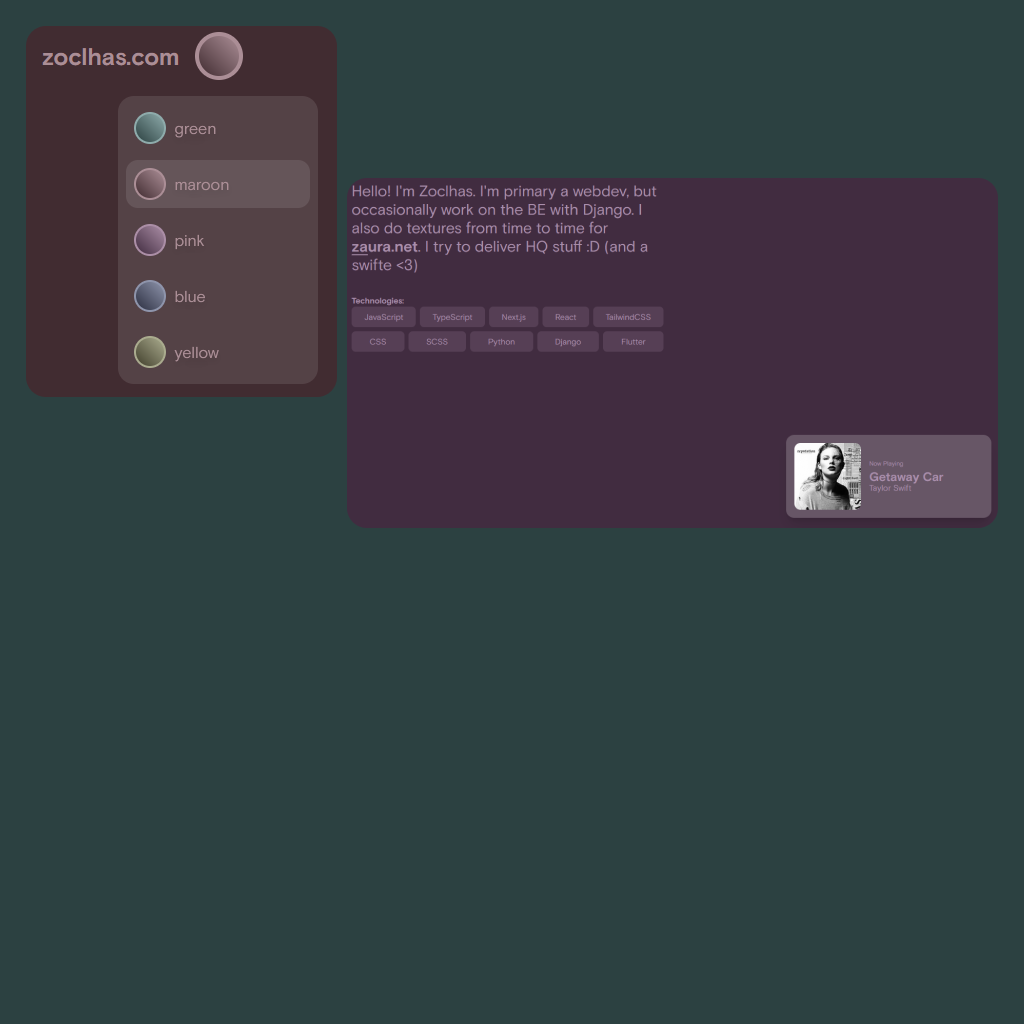
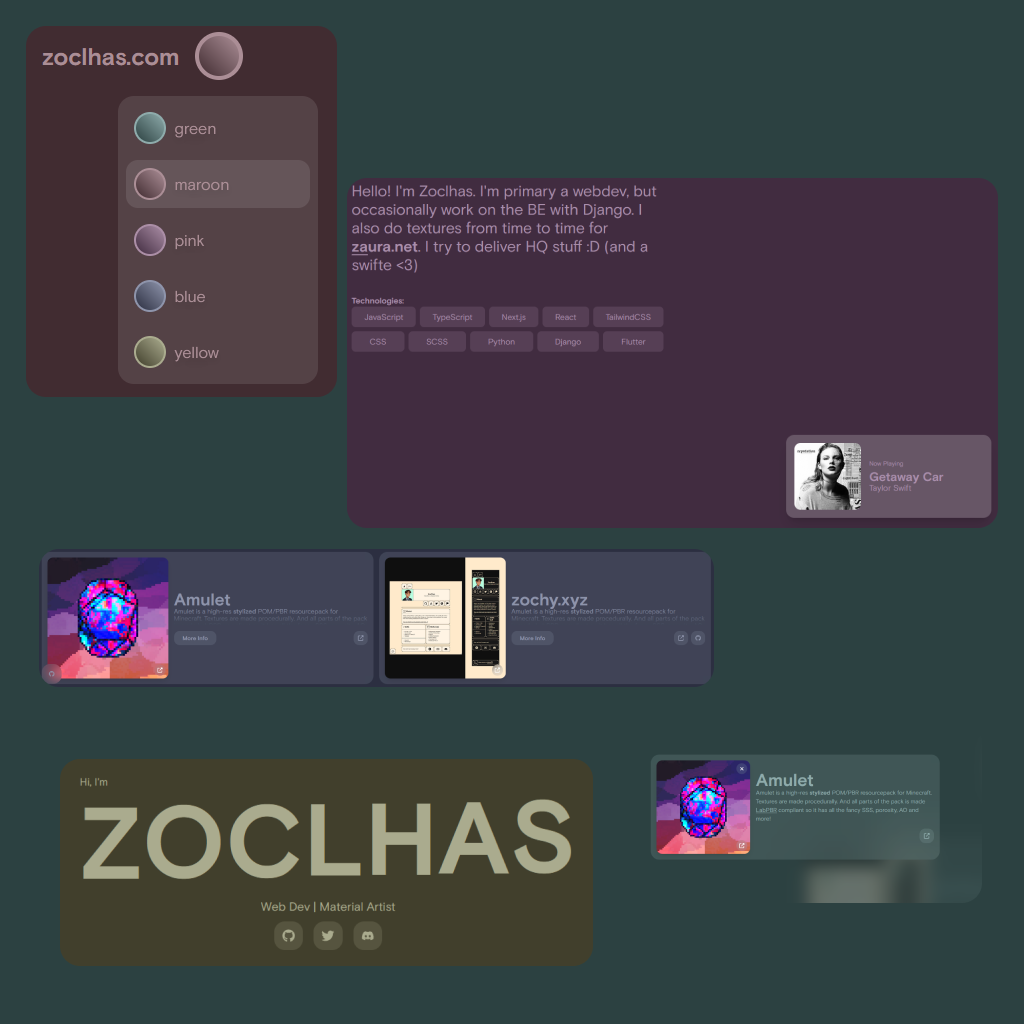
Completed projects section data

Changed region(s): [[0.0312, 0.5312, 0.6875, 0.6875], [0.0625, 0.7812, 0.5625, 0.9375], [0.625, 0.7188, 0.9375, 0.9062]]

diff --git a/components/projects.ts b/components/projects.ts
@@ -18,6 +18,55 @@ export const projects = [
         ],
     },
     {
+        coverImage: "/friisfy.png",
+        title: "Frisify",
+        description:
+            "Frisify is a translation and marketing agency committed to providing exceptional services to corporations and individuals within and surrounding Fryslân. Developed by me, and designed by [Shivamzter](https://shivamzter). Basic features like translation to NL, FRY, theme and contact features.",
+        links: {
+            site: "https://frisify.com",
+            github: null,
+        },
+        stack: ["TypeScript", "NextJS", "TailwindCSS", "SCSS"],
+    },
+    {
+        coverImage: "/naab.png",
+        title: "NAAB",
+        description:
+            "**(WIP)**; NAAB or Not A(n) Another Blog is a blog sharing platform. Well- this is my final year project, and decided to try on some mass social media platform or something. Still a lot of features to come, but is pretty decent right now.",
+        links: {
+            site: "https://notaanother.blog",
+            github: "https://github.com/zoclhas/not-a-another-blog",
+        },
+        stack: [
+            "TypeScript",
+            "NextJS",
+            "Redux",
+            "TailwindCSS",
+            "SCSS",
+            "Python",
+            "Django",
+        ],
+    },
+    {
+        coverImage: "/zaura.png",
+        title: "Zaura Studios",
+        description:
+            "Zaura Studios is creating HQ resourcepacks for Minecraft. Currently home to three packs:\n - [SubtlePBR](https://zaura.net/subtle)\n - [Amulet](https://zaura.net/amulet)\n - [F8thfulPBR](https://zaura.net/f8thfulpbr)\n\nCheck out the download options through the links in the above list. [Patreon](https://patreon.com/zaura)",
+        links: {
+            site: "https://zaura.net",
+            github: null,
+        },
+        stack: [
+            "JavaScript",
+            "NextJS",
+            "Redux",
+            "TailwindCSS",
+            "SCSS",
+            "Python",
+            "Django",
+        ],
+    },
+    {
         coverImage: "/zochy-bio.png",
         title: "zochy.xyz",
         description:
@@ -27,5 +76,35 @@ export const projects = [
             github: "https://github.com/zoclhas/zochy-bio",
         },
         stack: ["HTML/CSS/JS"],
+    },
+
+    {
+        coverImage: "/zoc.png",
+        title: "zoclhas.com",
+        description:
+            "Well my official portfolio site (remade for the 6th time). Includes a tiny about me, Spotify now playing, projects and **Contact** me. And *obv* a multi-colour theme switch.",
+        links: {
+            site: "https://zoclas.com",
+            github: "https://github.com/zoclhas/zochy.com",
+        },
+        stack: [
+            "TypeScript",
+            "NextJS",
+            "TailwindCSS",
+            "Framer Motion",
+            "Locomotive Scroll",
+            "SCSS",
+        ],
+    },
+    {
+        coverImage: "/shiv.png",
+        title: "shivamzter.com",
+        description:
+            "Developed by me, and designed by [Shivamzter](https://shivamzter). Shivamzter's his own page for sharing his resourcepacks.",
+        links: {
+            site: "https://shviamzter.com",
+            github: null,
+        },
+        stack: ["JavaScript", "NextJS", "SCSS"],
     },
 ];

diff --git a/components/sections/projects.tsx b/components/sections/projects.tsx
@@ -72,6 +72,7 @@ export const Projects = () => {
                             <div>
                                 <h1 className="text-5xl">{project.title}</h1>
                                 <ReactMarkdown
+                                    className="max-h-[50px] overflow-hidden relative after:block after:absolute after:w-full after:h-full after:bg-gradient-to-t after:from-[var(--s)] after:bottom-0 after:left-0 max-lg:max-h-[80px]"
                                     components={{
                                         a({ children, ...props }) {
                                             return (
@@ -89,7 +90,7 @@ export const Projects = () => {
                                         },
                                         p({ children }) {
                                             return (
-                                                <p className="text-lg leading-5 max-h-[50px] overflow-hidden relative after:block after:absolute after:w-full after:h-full after:bg-gradient-to-t after:from-[var(--s)] after:bottom-0 after:left-0 max-lg:max-h-[80px]">
+                                                <p className="text-lg leading-5">
                                                     {children}
                                                 </p>
                                             );
@@ -209,6 +210,7 @@ export const Projects = () => {
                                                 {projects[index - 1].title}
                                             </h1>
                                             <ReactMarkdown
+                                                className="card-content"
                                                 components={{
                                                     a({ children, ...props }) {
                                                         return (

diff --git a/styles/globals.scss b/styles/globals.scss
@@ -261,3 +261,11 @@ strong {
         }
     }
 }
+
+.card-content > ul {
+    margin-left: 2rem;
+
+    li {
+        list-style-type: disc;
+    }
+}
